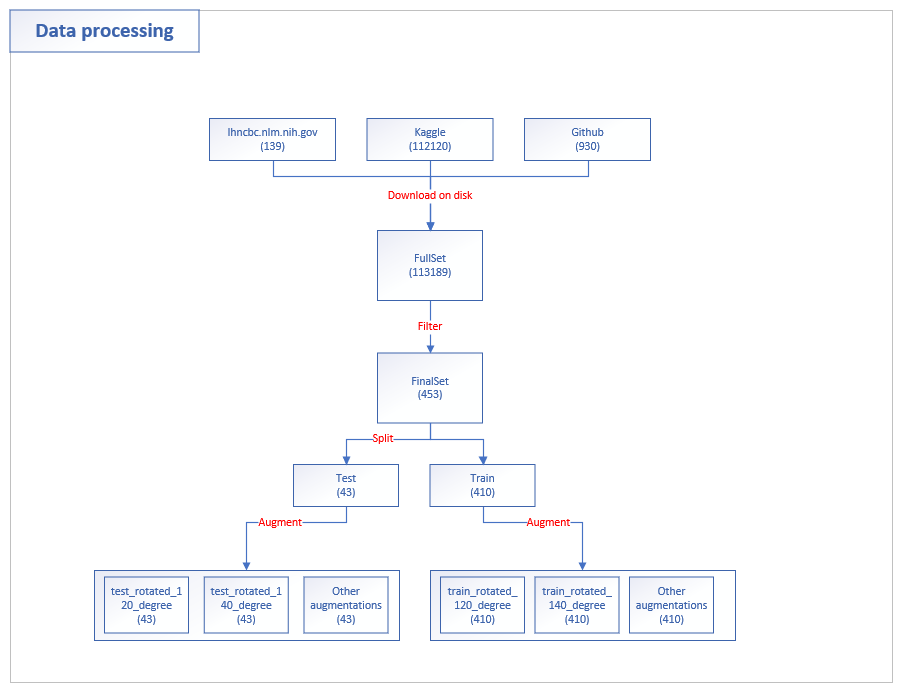
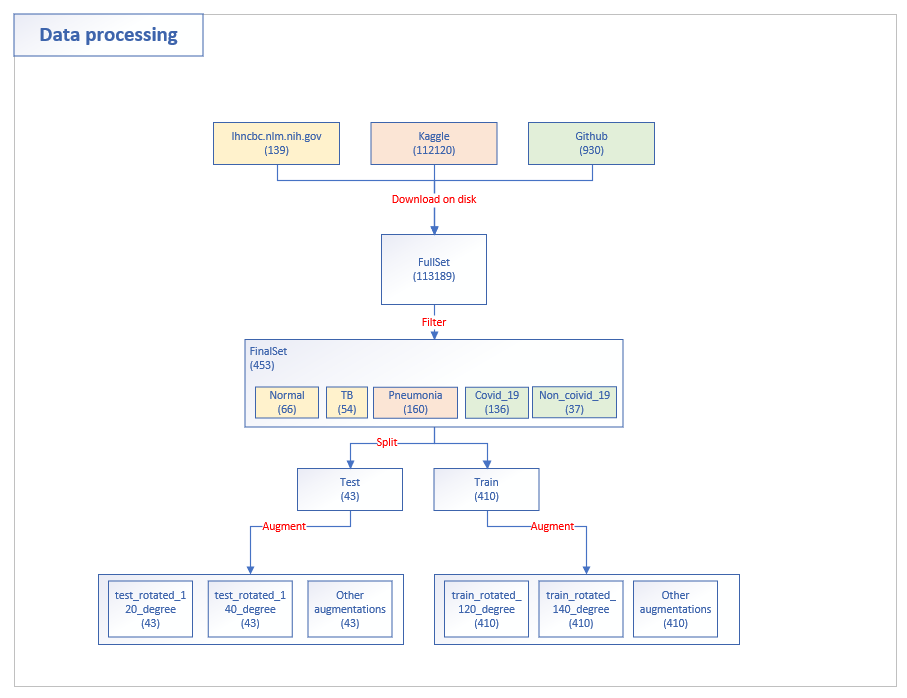
Modified diagram and augmentation script.

diff --git a/Scripts/DataManipulation/augmentation_main.py b/Scripts/DataManipulation/augmentation_main.py
@@ -55,31 +55,84 @@ def performAugmentation(inputFolderPath, outputRootFolderPath, technique, techni
             img = cv2.imread(inputFilePath)
             img1 = technique.apply(img)
             cv2.imwrite(outputFilePath,img1)
-            
-# Augmentation 1 - Rotate 140 degrees.
-outputTrainRootFolderPath = "../../Data/Augmented/train_rotated_140_degree"
-outputTestRootFolderPath = "../../Data/Augmented/test_rotated_140_degree"
-technique = createTechnique("rotate", {"angle" : 140})
-performAugmentation(trainFolderPath, outputTrainRootFolderPath, technique, "Train Rotate 140 degrees.")
-performAugmentation(testFolderPath, outputTestRootFolderPath, technique, "Test Rotate 140 degrees.")
 
-# Augmentation 2 - Rotate 120 degrees.
-outputTrainRootFolderPath = "../../Data/Augmented/train_rotated_120_degree"
-outputTestRootFolderPath = "../../Data/Augmented/test_rotated_120_degree"
-technique = createTechnique("rotate", {"angle" : 120})
-performAugmentation(trainFolderPath, outputTrainRootFolderPath, technique, "Train Rotate 120 degrees.")
-performAugmentation(testFolderPath, outputTestRootFolderPath, technique, "Test Rotate 120 degrees.")
+# Augmentation 1-6 - Rotate
+angles = [45, 60, 90, 120, 140, 160]
+for angle in angles:
+    outputTrainRootFolderPath = f"../../Data/Augmented/train_rotated_{angle}_degree"
+    outputTestRootFolderPath = f"../../Data/Augmented/test_rotated_{angle}_degree"
+    technique = createTechnique("rotate", {"angle" : angle})
+    performAugmentation(trainFolderPath, outputTrainRootFolderPath, technique, f"Train Rotate {angle} degrees.")
+    performAugmentation(testFolderPath, outputTestRootFolderPath, technique, f"Test Rotate {angle} degrees.")    
 
-# Augmentation 3 - Raise blue.
-outputTrainRootFolderPath = "../../Data/Augmented/train_raise_blue"
-outputTestRootFolderPath = "../../Data/Augmented/test_raise_blue"
-technique = createTechnique("raise_blue", {"power" : 0.9})
-performAugmentation(trainFolderPath, outputTrainRootFolderPath, technique, "Train Raise blue.")
-performAugmentation(testFolderPath, outputTestRootFolderPath, technique, "Test Raise blue.")
+# Augmentation 7-9 - crop
+percentages = [0.5, 0.7, 0.9]
+for percentage in percentages:
+    outputTrainRootFolderPath = f"../../Data/Augmented/train_crop_{percentage}"
+    outputTestRootFolderPath = f"../../Data/Augmented/test_crop_{percentage}"
+    technique = createTechnique("crop", {"percentage": percentage,"startFrom": "TOPLEFT"})
+    performAugmentation(trainFolderPath, outputTrainRootFolderPath, technique, f"Train Crop {percentage}.")
+    performAugmentation(testFolderPath, outputTestRootFolderPath, technique, f"Test Crop {percentage}.")    
 
-# Augmentation 4 - Flip both (horizontal and vertical).
-outputTrainRootFolderPath = "../../Data/Augmented/train_flip_both"
-outputTestRootFolderPath = "../../Data/Augmented/test_flip_both"
-technique = createTechnique("flip",{"flip":-1})
-performAugmentation(trainFolderPath, outputTrainRootFolderPath, technique, "Train Flip both")
-performAugmentation(testFolderPath, outputTestRootFolderPath, technique, "Test Flip both")
+# Augmentation 10-12 - flip
+directions = {0: "hor", 1: "ver", -1: "both"}
+for d in directions:
+    dname = directions[d]
+    outputTrainRootFolderPath = f"../../Data/Augmented/train_flip_{dname}"
+    outputTestRootFolderPath = f"../../Data/Augmented/test_flip_{dname}"
+    technique = createTechnique("flip", {"flip": d})
+    performAugmentation(trainFolderPath, outputTrainRootFolderPath, technique, f"Train flip {dname}.")
+    performAugmentation(testFolderPath, outputTestRootFolderPath, technique, f"Test flip {dname}.")    
+
+# Augmentation 13-16 - raise color
+colors = {"raise_blue": "blue", "raise_green": "green", "raise_hue": "hue", "raise_red": "red"}
+for c in colors:
+    cname = colors[c]
+    outputTrainRootFolderPath = f"../../Data/Augmented/train_raise_{cname}"
+    outputTestRootFolderPath = f"../../Data/Augmented/test_raise_{cname}"
+    technique = createTechnique("flip", {"flip": c})
+    performAugmentation(trainFolderPath, outputTrainRootFolderPath, technique, f"Train raise {cname}.")
+    performAugmentation(testFolderPath, outputTestRootFolderPath, technique, f"Test raise {cname}.")    
+
+# Augmentation 17 - median blur
+outputTrainRootFolderPath = "../../Data/Augmented/train_median_blur"
+outputTestRootFolderPath = "../../Data/Augmented/test_median_blur"
+technique = createTechnique("median_blur", {"kernel" : 5})
+performAugmentation(trainFolderPath, outputTrainRootFolderPath, technique, "Train median_blur.")
+performAugmentation(testFolderPath, outputTestRootFolderPath, technique, "Test median_blur.")
+
+# Augmentation 18-22 - other parameterless techniques
+othertechniques = {
+    "change_to_hsv": "change_to_hsv",
+    "change_to_lab": "change_to_lab",
+    "equalize_histogram": "equalize_histogram",
+    "invert": "invert",
+    "sharpen": "sharpen"}
+
+for tech in othertechniques:
+    outputTrainRootFolderPath = f"../../Data/Augmented/train_{tech}"
+    outputTestRootFolderPath = f"../../Data/Augmented/test_{tech}"
+    technique = createTechnique(tech, {})
+    performAugmentation(trainFolderPath, outputTrainRootFolderPath, technique, f"Train {tech}.")
+    performAugmentation(testFolderPath, outputTestRootFolderPath, technique, f"Test {tech}.")
+
+# Augmentation 23  - shearing
+outputTrainRootFolderPath = f"../../Data/Augmented/train_shearing"
+outputTestRootFolderPath = f"../../Data/Augmented/test_shearing"
+technique = createTechnique("shearing", {"a":0.5})
+performAugmentation(trainFolderPath, outputTrainRootFolderPath, technique, f"Train shearing.")
+performAugmentation(testFolderPath, outputTestRootFolderPath, technique, f"Test shearing.")
+
+# Augmentation 24 - resize
+outputTrainRootFolderPath = f"../../Data/Augmented/train_resize"
+outputTestRootFolderPath = f"../../Data/Augmented/test_resize"
+technique = createTechnique("resize", {"percentage" : 0.9, "method": "INTER_NEAREST"})
+performAugmentation(trainFolderPath, outputTrainRootFolderPath, technique, f"Train resize.")
+performAugmentation(testFolderPath, outputTestRootFolderPath, technique, f"Test resize.")
+
+# Augmentation 25 - gamma
+outputTrainRootFolderPath = f"../../Data/Augmented/train_gamma"
+outputTestRootFolderPath = f"../../Data/Augmented/test_gamma"
+technique = createTechnique("gamma", {"gamma":1.5})
+performAugmentation(trainFolderPath, outputTrainRootFolderPath, technique, f"Train gamma.")
+performAugmentation(testFolderPath, outputTestRootFolderPath, technique, f"Test gamma.")
